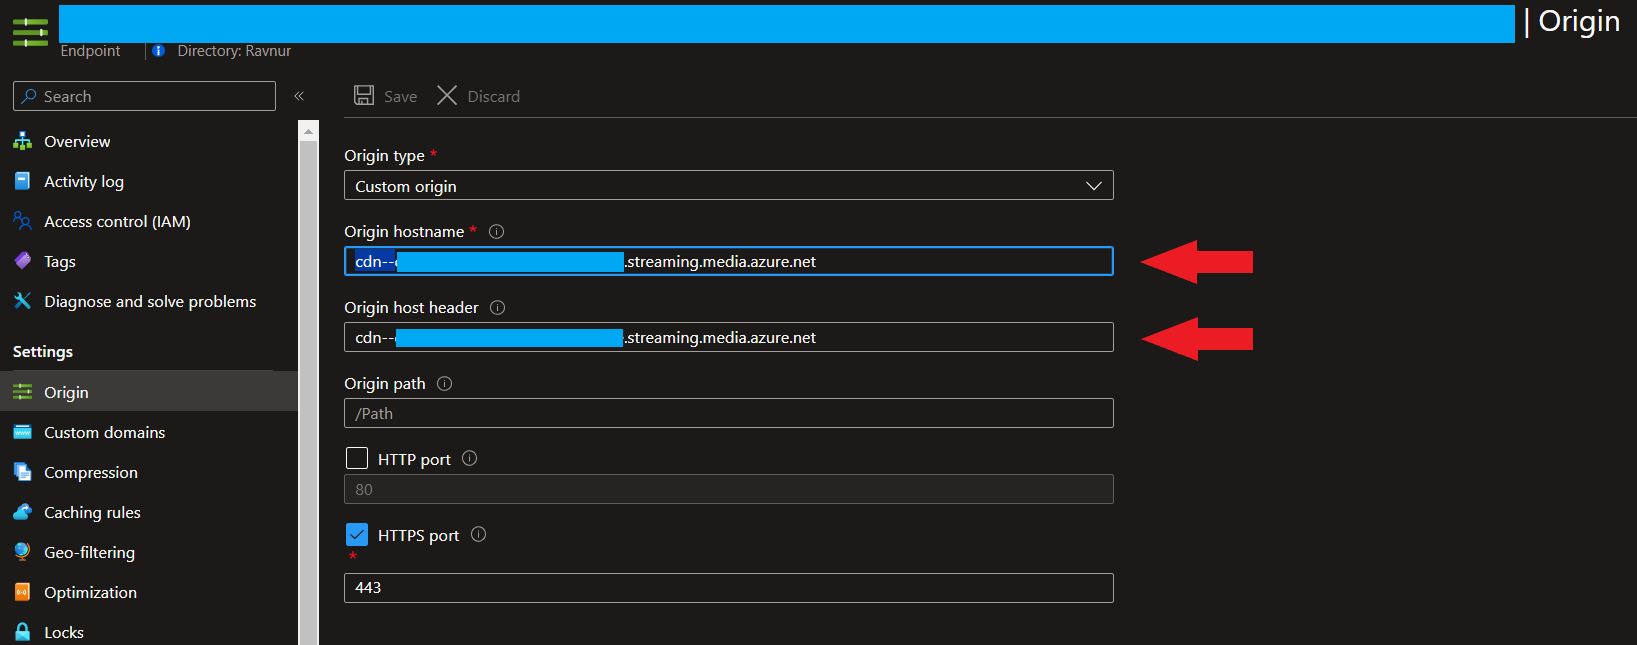
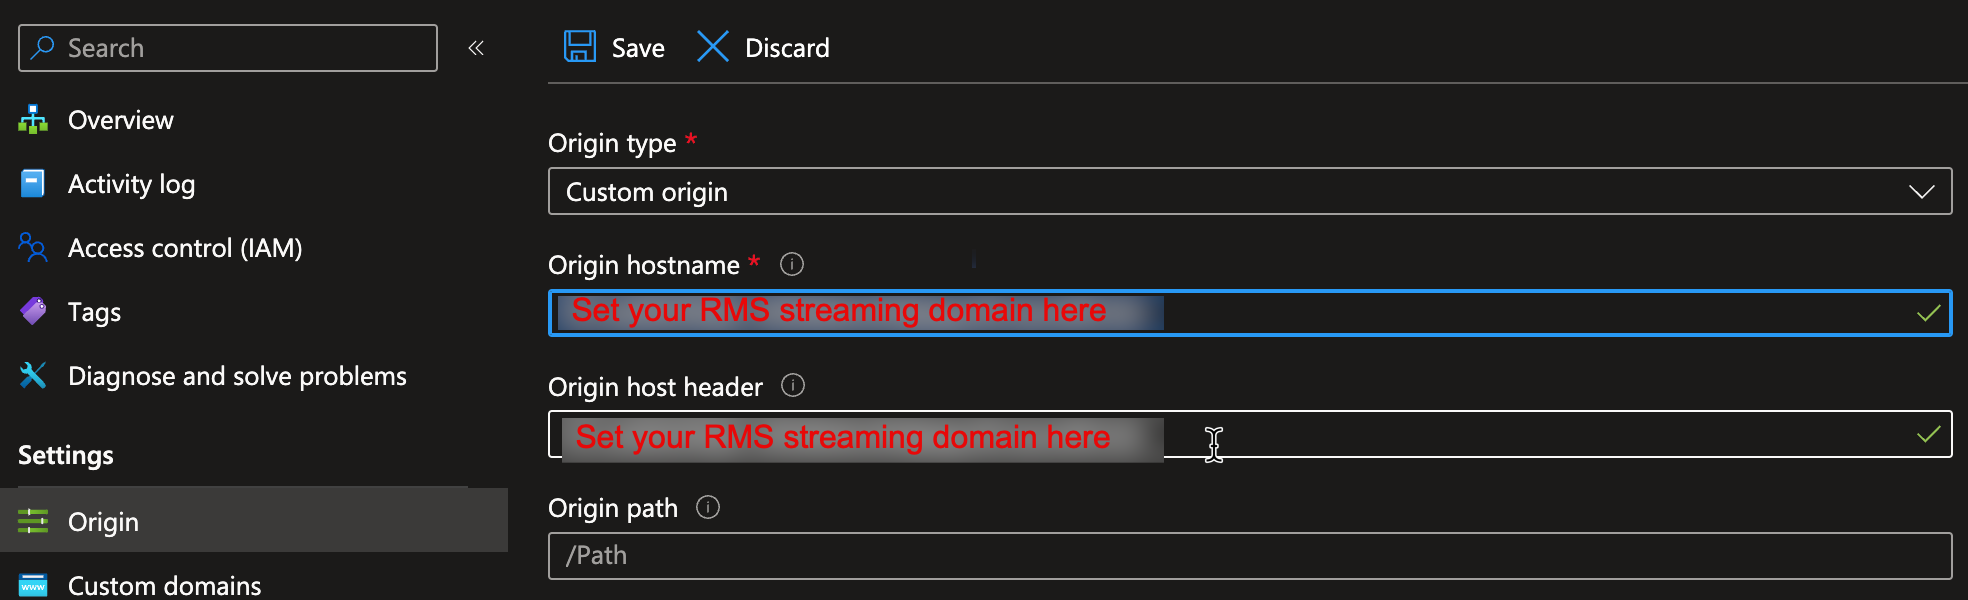
Change CDN migration insturctions

diff --git a/docs/app-migration.md b/docs/app-migration.md
@@ -89,9 +89,17 @@ RMS produces the same Event Grid events schema as AMS. Use [these instructions](
 
 At this point you have your storages registered in RMS and you ensured that your application works seamlessly with RMS API. Now you can migrate all your existing AMS assets metadata to RMS. This migration copies only metadata of your assets; it does not copy or move your assets contents from storage. [These instructions](data-migration.md) will guide you throug this process.
 
-## Repoint Your CDN to RMS Original
+## Update CDN configuration
 
-If you wish to continue using your CDN, this step should be performed as part of your final migration procedure and incorporated into your first release with RMS. After this step, all your existing streaming links will be routed to RMS streaming server. To ensure a smooth transition, make sure all your AMS locators are already in RMS. It's essential to prevent the creation of new VODs until the release and CDN configuration are completed. Alternatively, you can migrate any missing AMS VODs to RMS Console after the release.
+### Change CDN domain
+
+AMS streaming domain will be unavailable after AMS account is deactivated. So please prepare your own custom domain for your CDN in advance, [here](https://learn.microsoft.com/en-us/azure/cdn/cdn-map-content-to-custom-domain) Microsoft gives instructions how to do this. After that your CDN endpoint should look like this:
+![CDN before RMS migration](img/cdn-before-rms-migration.png)
+Also it means that all your existing streaming links should not use AMS streaming endpoint and use your own custom domain instead.
+
+### Change CDN Origin
+
+After this step, all your existing streaming links will be routed to RMS streaming server. That's why it should be performed as part of your final migration procedure and incorporated into your first release with RMS, which can look like this:
 
 1. Specify CDN domain as a new RMS streaming endpoint hostname
    * Go to RMS Console -> Manage -> Streaming Endpoints.
@@ -99,15 +107,13 @@ If you wish to continue using your CDN, this step should be performed as part of
    * Remember the host name of your RMS streaming endpoint, as you will need to use it as the new origin for your CDN
    * In the "Host Name" text box, specify your CDN domain name (for AMS, it's the AMS streaming endpoint hostname), and then click "Save"
      ![Change endpoint host name](img/endpoints-console-changed.PNG)
-   > [!NOTE] Without completing this step, your application will generate streaming links with the RMS domain. To avoid this, we recommend that your app continues using the AMS API in the production environment until this step is completed.
+   > [!NOTE] Without completing this step, your application may generate streaming links with the RMS origin domain instead of your CDN domain. It is because RMS API returns it to your application as a streaming endpoint hostname.
 2. Repoint your application to use RMS API
-   After this step your application will create all new videos in RMS instead of AMS, but their links will not work until the next step is completed. However, you don't need to migrate them in RMS Console since they are already in RMS.
-3. Replace origin in your CDN
-   If you use your custom CDN you might know better how to configure it. Here we explain how you can do it for CDN which belong to existing AMS streaming endpoint
+   After this step your application will create all new videos in RMS instead of AMS, but their links will not work from CDN until the next step is completed.
+3. Change your CDN origin
    * Navigate to your AMS Streaming Endpoint CDN profile
-     * In the Azure portal, go to your AMS account → Endpoints.
-     * Select the endpoint you use for streaming.
-     * Navigate to its CDN profile.
    * Select the endpoint routed to your AMS endpoint. ![Ams endpoint location](img/cdn-update-1.png)
    * Change the origin to your RMS streaming domain (it matches the RMS API endpoint domain). ![Change CDN origin](img/cdn-update-2.png)
-   * Wait for the origin change to propagate in the CDN. This can take a while. To ensure that the new origin is available, you can check the URL in a browser: "https://{CDN domain}/console".
+   * Wait for the origin change to propagate in the CDN. This can take a while. To ensure that the new origin is available, you can check the URL in a browser: "https://{your custom CDN domain}/console".
+4. Purge your CDN cache.
+   Your CDN contains cached AMS manifests with AMS segments URLs. And if some of segments are not in cache it will go to RMS which does not recognize such URLs. That's why please purge your CDN cache to ensure that all your VODs are correctly streamed.

diff --git a/README.md b/README.md
@@ -88,7 +88,7 @@ No, you do not need to re-encode any videos. RMS can work with existing AMS asse
 4.	**DO I NEED TO CHANGE THE STREAMING URL OR STREAMING LOCATOR?**
 RMS can use the existing streaming locator. The streaming URL will need to be changed, but you need to change only the host. For example, if you have a streaming URL like this: https://ams1.streaming.media.azure.net/5197ca71-3edc-42b0-adff-12570b48b4e4/video_3500000.ism/manifest(format=m3u8-cmaf) you would need to change **ams1.streaming.media.azure.net** to the RMS host. The RMS host domain can be customized to use your domain.
 5.	**DO I NEED TO CHANGE THE STREAMING URL OR STREAMING LOCATOR IF I’M USING A CDN?**
-No, all you need to change is your CDN origin so that it navigates to RMS and not AMS. As it was already mentioned in this case you don't need to update domain for your streaming URLs.
+Yes, you need to do so anyway because when the AMS streaming endpoint is deactivated, the AMS domain's DNS mapping to your CDN endpoint will also be removed. If you wish to continue using the AMS streaming domain, please contact AMS support. However, if you use your own custom domain, you don't need to change your streaming links. All you need in this case is to change is your CDN origin so that it uses the RMS streaming endpoint hostname instead of AMS. That's why we suggest you to create your own custom domain, map it to your existing CDN endpoint and change your streaming links in advance.
 6.	**DO I NEED TO MAKE CODE CHANGES IN MY APPLICATION TO USE THE RMS API?**
 Yes, but just a little bit. If you are using the Microsoft Azure SDK, you just need to tell the SDK to connect to RMS instead of AMS. Code samples can be found on the pages for the respective SDK versions of the demo app (links above). If you have your own implementation, you need to change only the host from AMS to RMS.
 7.	**WHAT STREAMING PROTOCOLS DO YOU SUPPORT?**
